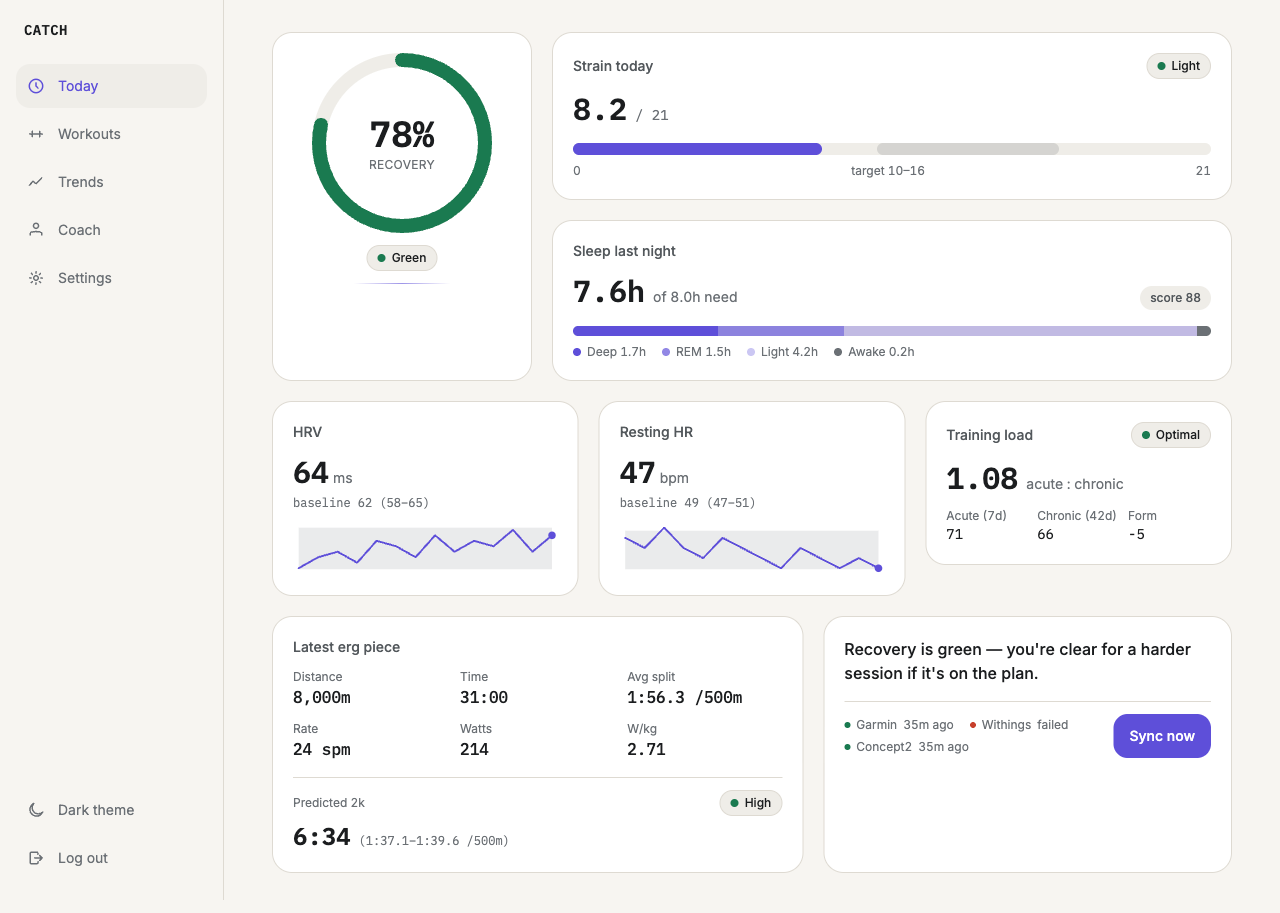
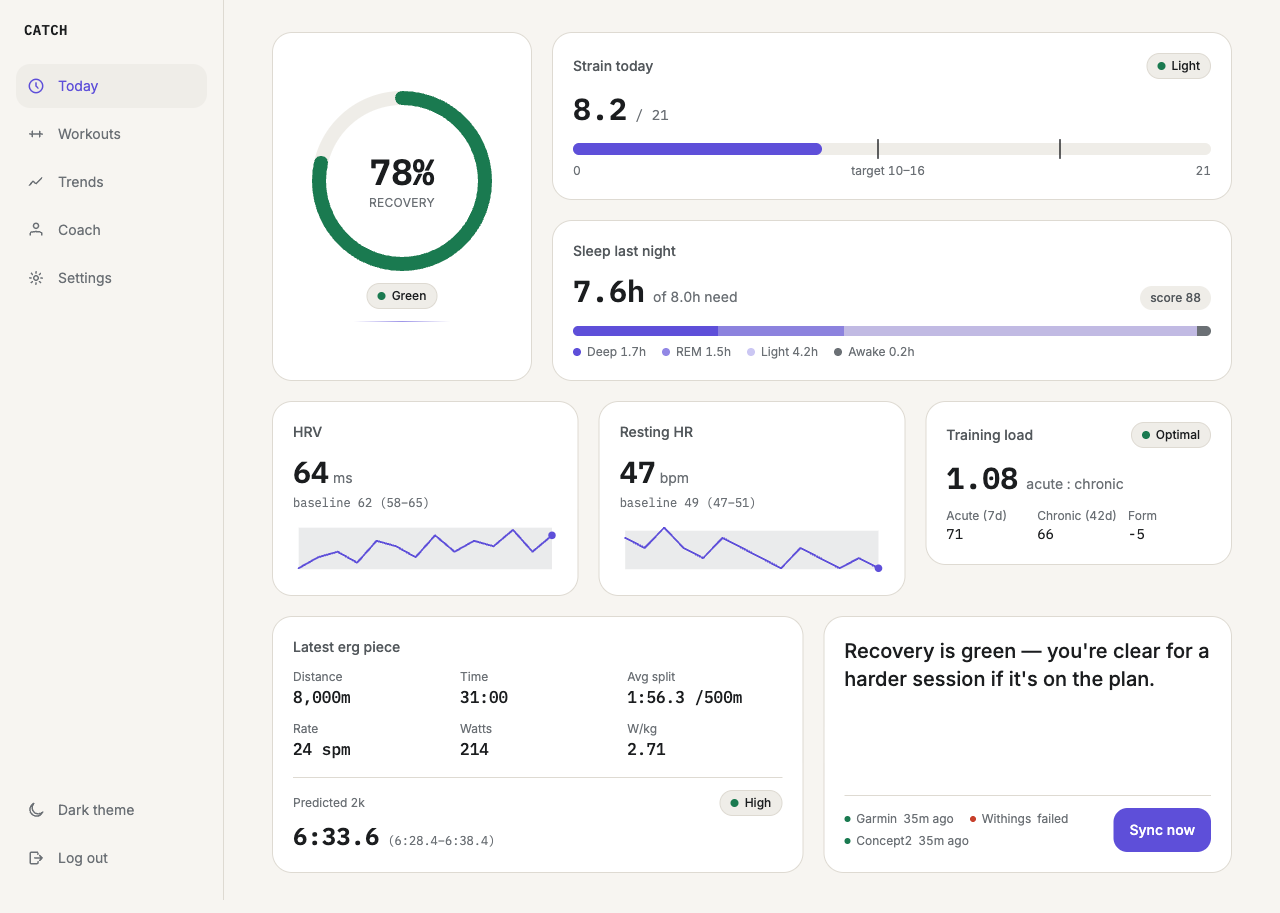
Session 3 follow-up: fix a path-traversal hole, desktop layout and formatting bugs
An advisor review after the initial commit caught a real security bug and several
UI issues that had only gotten one critique pass. Fixes, verified:

- catch/main.py: the SPA catch-all served any file FileResponse could reach under
  catch/api/static with no bounds check and no auth — GET /../../../.env (or an
  encoded equivalent) would have returned the password hash, Fernet key, and every
  API token; /../data/catch.db the live database. Fixed with safe_static_file(),
  which requires the resolved path stay under _STATIC_DIR, plus an explicit 404 for
  mistyped /api/ or /auth/ paths. Covered by tests/test_main_static.py and verified
  live with curl against the real build (traversal attempts now return exactly
  index.html's byte count, body never piped to output).
- "Sync now" ran all three sources with Promise.all; changed to sequential, since
  recompute_scores' non-blocking lock means two syncs finishing together can leave
  one unscored, and three concurrent syncs pressure the Pi's 1GB RAM.
- Desktop (1280px) only got one critique round: the recovery ring wasn't vertically
  centered in its taller card, and the recommendation card had dead space beside the
  taller erg card. Fixed, then actually re-screenshotted at both widths/themes.
- Predicted-2k time rendered as whole-second mm:ss instead of the spec's m:ss.t, and
  its range was in /500m pace next to a total-time headline. Fixed: formatSplit's
[…]

diff --git a/web/src/components/today/StrainGauge.tsx b/web/src/components/today/StrainGauge.tsx
@@ -21,21 +21,30 @@ export function StrainGauge({ strain, targetRange }: { strain: Strain | null; ta
         {hasValue ? (
           <CountUp value={value} decimals={1} className="text-3xl font-semibold text-text-primary" />
         ) : (
-          <span className="text-3xl font-semibold text-text-tertiary">—</span>
+          <span className="font-mono-nums text-3xl font-semibold text-text-tertiary">—</span>
         )}
         <span className="text-sm text-text-tertiary font-mono-nums">/ {MAX}</span>
       </div>
-      <div className="relative mt-4 h-3 w-full rounded-full bg-surface-2">
+      <div className="relative mt-4 h-3 w-full">
+        <div className="absolute inset-0 overflow-hidden rounded-full bg-surface-2">
+          <motion.div
+            className="absolute inset-y-0 left-0 rounded-full bg-accent"
+            initial={{ width: reduced ? `${pct}%` : "0%" }}
+            animate={{ width: `${pct}%` }}
+            transition={{ duration: reduced ? 0 : 1, ease: [0.16, 1, 0.3, 1] }}
+          />
+        </div>
+        {/* Target-range boundary ticks sit above the fill (not a translucent band under it) so
+            they stay visible even once the fill passes through or past the target range. */}
         <div
-          className="absolute inset-y-0 rounded-full bg-text-tertiary/20"
-          style={{ left: `${(lo / MAX) * 100}%`, width: `${((hi - lo) / MAX) * 100}%` }}
+          className="absolute -top-1 -bottom-1 w-0.5 rounded-full bg-text-primary/70"
+          style={{ left: `${(lo / MAX) * 100}%` }}
           aria-hidden
         />
-        <motion.div
-          className="absolute inset-y-0 left-0 rounded-full bg-accent"
-          initial={{ width: reduced ? `${pct}%` : "0%" }}
-          animate={{ width: `${pct}%` }}
-          transition={{ duration: reduced ? 0 : 1, ease: [0.16, 1, 0.3, 1] }}
+        <div
+          className="absolute -top-1 -bottom-1 w-0.5 rounded-full bg-text-primary/70"
+          style={{ left: `${(hi / MAX) * 100}%` }}
+          aria-hidden
         />
       </div>
       <div className="mt-2 flex justify-between text-xs text-text-tertiary">

diff --git a/web/src/components/today/RecommendationAndSync.tsx b/web/src/components/today/RecommendationAndSync.tsx
@@ -9,8 +9,16 @@ export function RecommendationAndSync({ recommendation }: { recommendation: stri
 
   const syncAll = useMutation({
     mutationFn: async () => {
+      // Sequential, not Promise.all: recompute_scores takes a non-blocking lock and skips
+      // itself if another sync is already recomputing, so two sources finishing at once
+      // can leave one of them unscored until the next scheduled sync. Also kinder to the
+      // Pi's 1GB RAM than three syncs' worth of concurrent memory pressure.
       const sources = statusQuery.data?.map((s) => s.source) ?? ["garmin", "withings", "concept2"];
-      return Promise.all(sources.map((s) => triggerSync(s)));
+      const results = [];
+      for (const source of sources) {
+        results.push(await triggerSync(source));
+      }
+      return results;
     },
     onSettled: () => {
       queryClient.invalidateQueries({ queryKey: ["sync-status"] });
@@ -19,10 +27,15 @@ export function RecommendationAndSync({ recommendation }: { recommendation: stri
   });
 
   return (
-    <Card>
-      <p className="text-base font-medium text-text-primary">{recommendation}</p>
+    <Card className="flex h-full flex-col">
+      <p className="text-lg font-medium text-text-primary lg:text-xl">{recommendation}</p>
 
-      <div className="mt-4 flex flex-col gap-2 border-t border-border pt-3 sm:flex-row sm:items-center sm:justify-between">
+      {/* Absorbs the extra height the grid stretches this card to (at lg:, it sits next to
+          the taller erg card) so the sync row anchors to the bottom instead of leaving a
+          gap under the recommendation text. */}
+      <div className="mt-4 flex-1" aria-hidden />
+
+      <div className="flex flex-col gap-2 border-t border-border pt-3 sm:flex-row sm:items-center sm:justify-between">
         <ul className="flex flex-wrap gap-x-4 gap-y-1.5 text-xs text-text-tertiary">
           {(statusQuery.data ?? []).map((s) => (
             <li key={s.source} className="inline-flex items-center gap-1.5">

diff --git a/web/src/components/today/ErgCard.tsx b/web/src/components/today/ErgCard.tsx
@@ -1,5 +1,5 @@
 import type { ErgPiece, Predicted2k } from "../../lib/types";
-import { bandLabel, formatDistance, formatDuration, formatSplit } from "../../lib/format";
+import { bandLabel, formatDistance, formatDuration, formatSplit, formatTimeTenths } from "../../lib/format";
 import { BandBadge } from "../ui/Badge";
 import { Card } from "../ui/Card";
 import { EmptyState } from "../ui/EmptyState";
@@ -34,11 +34,14 @@ export function ErgCard({ erg, predicted2k }: { erg: ErgPiece | null; predicted2
         {predicted2k.value != null ? (
           <div className="mt-1 flex items-baseline gap-2">
             <span className="font-mono-nums text-2xl font-semibold text-text-primary">
-              {formatDuration(predicted2k.predicted_time_s)}
+              {formatTimeTenths(predicted2k.predicted_time_s)}
             </span>
             {predicted2k.range && (
+              // Range shown as 2k times (pace * 4), matching the headline number's unit —
+              // not /500m paces sitting next to a total time, which reads as two different
+              // quantities at a glance.
               <span className="font-mono-nums text-xs text-text-tertiary">
-                ({formatSplit(predicted2k.range[0])}–{formatSplit(predicted2k.range[1])} /500m)
+                ({formatTimeTenths(predicted2k.range[0] * 4)}–{formatTimeTenths(predicted2k.range[1] * 4)})
               </span>
             )}
           </div>

diff --git a/web/src/lib/format.ts b/web/src/lib/format.ts
@@ -1,11 +1,19 @@
 // Round to tenths *before* splitting into minutes/seconds — otherwise 119.96 renders as
 // "1:60.0" instead of "2:00.0" (the seconds component rounding up past 60 independently).
-export function formatSplit(secondsPer500: number | null | undefined): string {
-  if (secondsPer500 == null || !Number.isFinite(secondsPer500)) return "—:—.—";
-  const rounded = Math.round(secondsPer500 * 10) / 10;
+// Generic clock-with-tenths formatting: used for /500m splits (formatSplit below) and
+// equally for any other duration that should read as m:ss.t, e.g. a predicted 2k time —
+// the task spec's "splits always m:ss.t" rule applies to on-the-water time generally, not
+// only to the word "split."
+export function formatTimeTenths(totalSeconds: number | null | undefined): string {
+  if (totalSeconds == null || !Number.isFinite(totalSeconds)) return "—:—.—";
+  const rounded = Math.round(totalSeconds * 10) / 10;
   const minutes = Math.floor(rounded / 60);
   const seconds = rounded - minutes * 60;
   return `${minutes}:${seconds.toFixed(1).padStart(4, "0")}`;
+}
+
+export function formatSplit(secondsPer500: number | null | undefined): string {
+  return formatTimeTenths(secondsPer500);
 }
 
 export function formatDuration(totalSeconds: number | null | undefined): string {

diff --git a/web/src/lib/auth.tsx b/web/src/lib/auth.tsx
@@ -1,5 +1,5 @@
 import { createContext, useContext, useEffect, useState, type ReactNode } from "react";
-import { ApiError, fetchSyncStatus, isMock, login as apiLogin, logout as apiLogout } from "./api";
+import { UNAUTHORIZED_EVENT, fetchSyncStatus, isMock, login as apiLogin, logout as apiLogout } from "./api";
 
 type AuthStatus = "checking" | "authed" | "anon";
 
@@ -20,7 +20,16 @@ export function AuthProvider({ children }: { children: ReactNode }) {
     // duplicating session-cookie verification logic in the frontend.
     fetchSyncStatus()
       .then(() => setStatus("authed"))
-      .catch((err) => setStatus(err instanceof ApiError && err.status === 401 ? "anon" : "anon"));
+      .catch(() => setStatus("anon"));
+  }, []);
+
+  useEffect(() => {
+    if (isMock) return;
+    // A session cookie expiring mid-visit shouldn't leave every card stuck on a Retry
+    // button that can never succeed — drop back to the login screen instead.
+    const onUnauthorized = () => setStatus("anon");
+    window.addEventListener(UNAUTHORIZED_EVENT, onUnauthorized);
+    return () => window.removeEventListener(UNAUTHORIZED_EVENT, onUnauthorized);
   }, []);
 
   async function login(password: string) {

diff --git a/web/src/components/today/RecoveryRing.tsx b/web/src/components/today/RecoveryRing.tsx
@@ -43,7 +43,7 @@ export function RecoveryRing({ recovery }: { recovery: Recovery | null }) {
       <Dialog.Trigger asChild>
         <button
           type="button"
-          className="flex w-full flex-col items-center gap-3 rounded-lg border border-border bg-surface p-5 transition-colors hover:border-accent/40"
+          className="flex h-full w-full flex-col items-center justify-center gap-3 rounded-lg border border-border bg-surface p-5 transition-colors hover:border-accent/40"
           aria-label="Recovery details"
         >
           <div className="relative" style={{ width: SIZE, height: SIZE }}>
@@ -76,7 +76,7 @@ export function RecoveryRing({ recovery }: { recovery: Recovery | null }) {
                   <CountUp value={value} decimals={0} suffix="%" className="text-4xl font-semibold text-text-primary" />
                 </>
               ) : (
-                <span className="text-lg font-medium text-text-tertiary">—</span>
+                <span className="font-mono-nums text-lg font-medium text-text-tertiary">—</span>
               )}
               <span className="mt-1 text-xs uppercase tracking-wide text-text-tertiary">Recovery</span>
             </div>

diff --git a/web/src/styles/tokens.css b/web/src/styles/tokens.css
@@ -14,6 +14,11 @@
   --band-green: #49b382;
   --band-yellow: #e0b23c;
   --band-red: #e2614f;
+  /* A darker red than --band-red specifically for small text sitting on a --band-red tint
+     (e.g. the high-risk load warning) — --band-red itself is tuned for dots/badges on
+     --bg/--surface and falls short of 4.5:1 on its own 10%-opacity tint at small text sizes
+     in the light theme. Dark theme's --band-red already clears 4.5:1 there, so it's reused. */
+  --band-red-text: var(--band-red);
   --band-calibrating: var(--text-tertiary);
 
   --focus-ring: var(--accent);
@@ -55,6 +60,7 @@
   --band-green: #1a7a50;
   --band-yellow: #8a6a14;
   --band-red: #c7402c;
+  --band-red-text: #b8371f;
 }
 
 @media (prefers-color-scheme: light) {
@@ -71,6 +77,7 @@
     --band-green: #1a7a50;
     --band-yellow: #8a6a14;
     --band-red: #c7402c;
+    --band-red-text: #b8371f;
   }
 }
 

diff --git a/web/src/lib/api.ts b/web/src/lib/api.ts
@@ -12,10 +12,16 @@ export class ApiError extends Error {
   }
 }
 
+// A session cookie can expire mid-visit (30-day max age, but still). AuthProvider listens
+// for this so a stale session drops the user back to the login screen instead of leaving
+// every card stuck on "Couldn't load" with a Retry button that will never succeed.
+export const UNAUTHORIZED_EVENT = "catch:unauthorized";
+
 async function request<T>(path: string, init?: RequestInit): Promise<T> {
   const res = await fetch(path, { credentials: "include", ...init });
   if (!res.ok) {
     const body = await res.json().catch(() => ({}));
+    if (res.status === 401) window.dispatchEvent(new Event(UNAUTHORIZED_EVENT));
     throw new ApiError(res.status, body.detail ?? res.statusText);
   }
   return res.json() as Promise<T>;

diff --git a/web/src/components/today/LoadCard.tsx b/web/src/components/today/LoadCard.tsx
@@ -42,7 +42,7 @@ export function LoadCard({ load }: { load: Load | null }) {
         </dl>
       )}
       {highRisk && (
-        <p className="mt-3 rounded-md border border-band-red/30 bg-band-red/10 px-3 py-2 text-xs text-band-red">
+        <p className="mt-3 rounded-md border border-band-red/30 bg-band-red/10 px-3 py-2 text-xs text-band-red-text">
           Acute:chronic ratio is in the high-risk band — add load cautiously.
         </p>
       )}

diff --git a/web/src/index.css b/web/src/index.css
@@ -24,6 +24,7 @@
   --color-band-green: var(--band-green);
   --color-band-yellow: var(--band-yellow);
   --color-band-red: var(--band-red);
+  --color-band-red-text: var(--band-red-text);
   --color-band-calibrating: var(--band-calibrating);
 
   --font-sans: var(--font-ui);

diff --git a/catch/main.py b/catch/main.py
@@ -3,7 +3,7 @@ from __future__ import annotations
 from contextlib import asynccontextmanager
 from pathlib import Path
 
-from fastapi import FastAPI
+from fastapi import FastAPI, HTTPException
 from fastapi.responses import FileResponse
 from fastapi.staticfiles import StaticFiles
 
@@ -11,7 +11,18 @@ from catch.api import routes_activities, routes_analytics, routes_auth, routes_b
 from catch.core.db import init_db
 from catch.sync.scheduler import start_scheduler, stop_scheduler
 
-_STATIC_DIR = Path(__file__).resolve().parent / "api" / "static"
+_STATIC_DIR = (Path(__file__).resolve().parent / "api" / "static").resolve()
+
+
+def safe_static_file(full_path: str) -> Path | None:
+    """Resolves `full_path` under `_STATIC_DIR` and refuses anything that escapes it (e.g.
+    `../../.env` or an encoded equivalent FastAPI has already decoded by the time this runs).
+    Returns None for anything outside the dir or that isn't a file, so the caller always has
+    a safe index.html fallback to reach for instead."""
+    candidate = (_STATIC_DIR / full_path).resolve()
+    if not candidate.is_relative_to(_STATIC_DIR):
+        return None
+    return candidate if candidate.is_file() else None
 
 
 @asynccontextmanager
@@ -42,9 +53,13 @@ def health():
 if _STATIC_DIR.is_dir():
     app.mount("/assets", StaticFiles(directory=_STATIC_DIR / "assets"), name="assets")
 
-    @app.get("/{full_path:path}")
+    @app.get("/{full_path:path}", include_in_schema=False)
     def spa(full_path: str):
-        candidate = _STATIC_DIR / full_path
-        if full_path and candidate.is_file():
-            return FileResponse(candidate)
+        # A typo'd /api/ or /auth/ path must 404, not fall through to index.html with a 200 —
+        # that would mask a broken route behind what looks like a working page load.
+        if full_path.startswith("api/") or full_path.startswith("auth/"):
+            raise HTTPException(status_code=404)
+        safe = safe_static_file(full_path)
+        if safe is not None:
+            return FileResponse(safe)
         return FileResponse(_STATIC_DIR / "index.html")

diff --git a/tests/test_main_static.py b/tests/test_main_static.py
@@ -1,0 +1,33 @@
+from __future__ import annotations
+
+from pathlib import Path
+
+import catch.main as main
+
+
+def test_safe_static_file_rejects_traversal(tmp_path, monkeypatch):
+    static_dir = tmp_path / "static"
+    static_dir.mkdir()
+    (static_dir / "index.html").write_text("<html></html>")
+    secret = tmp_path / ".env"
+    secret.write_text("CATCH_PASSWORD_HASH=super-secret")
+
+    monkeypatch.setattr(main, "_STATIC_DIR", static_dir.resolve())
+
+    assert main.safe_static_file("../.env") is None
+    assert main.safe_static_file("../../.env") is None
+    assert main.safe_static_file("%2e%2e/.env") is None  # literal chars, FastAPI decodes before this runs
+    assert main.safe_static_file("nonexistent.js") is None
+
+
+def test_safe_static_file_accepts_real_asset(tmp_path, monkeypatch):
+    static_dir = tmp_path / "static"
+    static_dir.mkdir()
+    (static_dir / "index.html").write_text("<html></html>")
+    (static_dir / "assets").mkdir()
+    (static_dir / "assets" / "app.js").write_text("console.log('x')")
+
+    monkeypatch.setattr(main, "_STATIC_DIR", static_dir.resolve())
+
+    result = main.safe_static_file("assets/app.js")
+    assert result == (static_dir / "assets" / "app.js").resolve()
